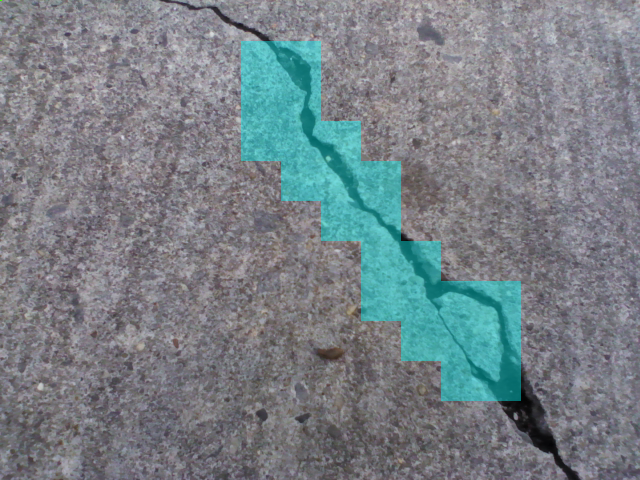
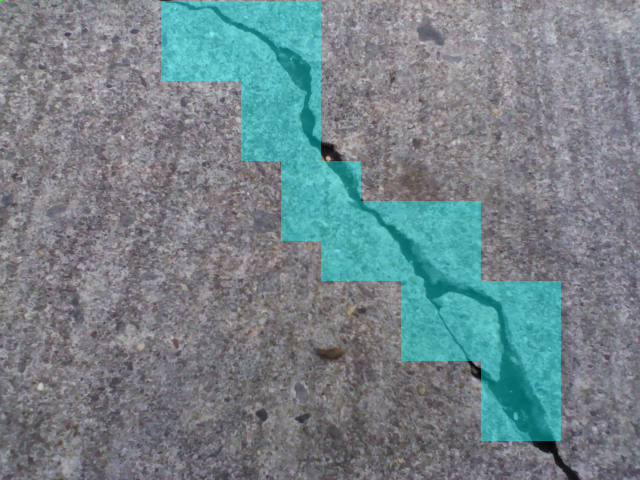
fast api added

diff --git a/app.py b/app.py
@@ -1,0 +1,155 @@
+import os
+import cv2
+import torch
+from fastapi import FastAPI, UploadFile, File
+from fastapi.responses import FileResponse
+import numpy as np
+from io import BytesIO
+from PIL import Image
+from torch.autograd import Variable
+from models import resnet as resnet
+import os
+import sys
+import json
+import numpy as np
+import torch
+from torch import nn
+from torch import optim
+from torch.optim import lr_scheduler
+from opts import parse_opts
+from model import generate_model
+from utils import Logger
+from train import train_epoch
+from validation import val_epoch
+from torch.autograd import Variable
+from models import resnet as resnet
+import pickle
+import matplotlib.pyplot as plt
+import matplotlib.cm as cm
+from PIL import Image
+import cv2
+import ssl
+from fastapi.responses import StreamingResponse
+from io import BytesIO
+from fastapi.responses import StreamingResponse
+from io import BytesIO
+from PIL import UnidentifiedImageError
+import logging
+import ssl
+
+logging.basicConfig(level=logging.INFO)
+logger = logging.getLogger("uvicorn")
+
+device = torch.device("cuda" if torch.cuda.is_available() else "cpu")
+
+ssl._create_default_https_context = ssl._create_unverified_context
+
+
+app = FastAPI()
+
+
+class ModelLoad:
+    def __init__(self, opt):
+        self.model = resnet.resnet34(pretrained=True, num_classes=opt.n_classes)
+        self.model = self.model.to(device)
+        pretrain = torch.load(
+            "resnet34/save_10.pth", map_location=device, weights_only=True
+        )
+        saved_state_dict = pretrain["state_dict"]
+        new_params = self.model.state_dict().copy()
+        for name, param in new_params.items():
+            if (
+                "module." + name in saved_state_dict
+                and param.size() == saved_state_dict["module." + name].size()
+            ):
+                new_params[name].copy_(saved_state_dict["module." + name])
+        self.model.load_state_dict(new_params)
+        self.model.eval()
+
+    def model_pre(self, img):
+        predict = self.model(img)
+        return predict
+
+
+@app.on_event("startup")
+async def load_model():
+    global modelM
+    opt = parse_opts()
+    modelM = ModelLoad(opt)
+
+
+def process_image(file):
+    image = Image.open(BytesIO(file)).convert("RGB")
+    img = np.array(image)
+    ori = img.copy()
+
+    regionSize = 40
+    color_m = [(0, 255, 0), (255, 255, 0)]
+    height, width, _ = img.shape
+    widthLevel = int(width / regionSize)
+    heightLevel = int(height / regionSize)
+
+    for ii in range(1, widthLevel - 1):
+        for jj in range(1, heightLevel - 1):
+            rangeXForCut = [
+                (ii - 1) * regionSize + 1,
+                (ii - 1) * regionSize + regionSize * 2,
+            ]
+            rangeYForCut = [
+                (jj - 1) * regionSize + 1,
+                (jj - 1) * regionSize + regionSize * 2,
+            ]
+            if rangeXForCut[1] > width or rangeYForCut[1] > height:
+                continue
+            tempImg = img[
+                int(rangeYForCut[0]) : int(rangeYForCut[1]),
+                int(rangeXForCut[0]) : int(rangeXForCut[1]),
+                :,
+            ]
+            if tempImg.shape[0] != 0 and tempImg.shape[1] != 0:
+                tempImg = cv2.resize(tempImg, (224, 224), interpolation=cv2.INTER_CUBIC)
+                sour_img = torch.Tensor(torch.from_numpy(tempImg).float().div(255))
+                sour_img = sour_img.permute(2, 0, 1)
+                sour_img = sour_img.unsqueeze(0)
+                sour_img = Variable(sour_img).to(device)
+                predict = modelM.model_pre(sour_img)
+                _, predicted = torch.max(predict, 1)
+                if (
+                    predicted.data.cpu().numpy()[0] == 1
+                    or predicted.data.cpu().numpy()[0] == 2
+                ):
+                    cv2.rectangle(
+                        img,
+                        (int(rangeXForCut[1]), int(rangeYForCut[1])),
+                        (int(rangeXForCut[0]), int(rangeYForCut[0])),
+                        color_m[predicted.data.cpu().numpy()[0] - 1],
+                        -1,
+                    )
+
+    cv2.addWeighted(ori, 0.6, img, 0.4, 0, img)
+    return Image.fromarray(img)
+
+
+@app.post("/process_image/")
+async def process_upload_image(file: UploadFile = File(...)):
+    try:
+        logger.info(f"Received file: {file.filename}")
+
+        contents = await file.read()
+        logger.info(f"File size: {len(contents)} bytes")
+
+        processed_image = process_image(contents)
+
+        img_byte_arr = BytesIO()
+        processed_image.save(img_byte_arr, format="PNG")
+        img_byte_arr.seek(0)
+
+        logger.info("Image processed successfully")
+
+        return StreamingResponse(img_byte_arr, media_type="image/png")
+    except UnidentifiedImageError:
+        logger.error("Unsupported file type or corrupt image")
+        return {"error": "Unsupported file type or corrupt image"}
+    except Exception as e:
+        logger.error(f"An error occurred: {str(e)}")
+        return {"error": f"An error occurred: {str(e)}"}

diff --git a/demo_test.py b/demo_test.py
@@ -37,54 +37,45 @@ import torch
 from torch import nn
 from torch import optim
 from torch.optim import lr_scheduler
-
 from opts import parse_opts
 from model import generate_model
-
-
 from utils import Logger
 from train import train_epoch
 from validation import val_epoch
-
 from torch.autograd import Variable
-
-
 from models import resnet as resnet
 import pickle
-
 import matplotlib.pyplot as plt
 import matplotlib.cm as cm
-
 from PIL import Image
-
+import torch
 import cv2
+import ssl
 
+ssl._create_default_https_context = ssl._create_unverified_context
+
+device = torch.device("cuda" if torch.cuda.is_available() else "cpu")
 
 class ModelLoad():
 
     def __init__(self, opt):
-        ## switch to any model you prefer
         self.model = resnet.resnet34(pretrained = True, num_classes=opt.n_classes)
+        self.model = self.model.to(device)
+        pretrain = torch.load(
+            "resnet34/save_10.pth", map_location=device, weights_only=True
+        )
 
-        self.model = self.model.cuda()
-        #self.model = nn.DataParallel(self.model, device_ids=None)
-        #print('loading pretrained model {}'.format(opt.pretrain_path))
-        pretrain = torch.load('resnet34/save_1.pth')
-
-        # print(net)
         print('--------------------        load the pretrained model        --------------------------------------')
         saved_state_dict = pretrain['state_dict']
-        #saved_state_dict = pretrain.state_dict()
+        # saved_state_dict = pretrain.state_dict()
         print('----------------------------------------------------------')
         new_params = self.model.state_dict().copy()
         for name, param in new_params.items():
-            # print name
             if 'module.'+name in saved_state_dict and param.size() == saved_state_dict['module.'+name].size():
                 new_params[name].copy_(saved_state_dict['module.'+name])
 
         self.model.load_state_dict(new_params)
         self.model.eval()
-
 
     def model_pre(self, img):
         predict = self.model(img)
@@ -131,7 +122,7 @@ if __name__ == '__main__':
                            sour_img = torch.Tensor(torch.from_numpy(tempImg).float().div(255))
                            sour_img = sour_img.permute(2, 0, 1)
                            sour_img     = sour_img.unsqueeze(0)
-                           sour_img     = Variable(sour_img).cuda()
+                           sour_img = Variable(sour_img).to(device)
                            predict =  modelM.model_pre(sour_img)
                            #result = predict.data.cpu().numpy()
                            _, predicted = torch.max(predict, 1)

diff --git a/opts.py b/opts.py
@@ -1,4 +1,5 @@
 import argparse
+import sys
 
 
 def parse_opts():
@@ -207,6 +208,12 @@ def parse_opts():
     parser.add_argument(
         '--manual_seed', default=1, type=int, help='Manually set random seed')
 
-    args = parser.parse_args()
+    # args = parser.parse_args()
+    # If this script is run directly (e.g., for training), process command-line arguments.
+    # But if no command-line arguments are passed (as with Uvicorn), use defaults.
+    if "uvicorn" in sys.argv[0]:
+        args = parser.parse_args([])  # If running in Uvicorn, ignore command-line args
+    else:
+        args = parser.parse_args()  # Otherwise, process command-line args
 
     return args
